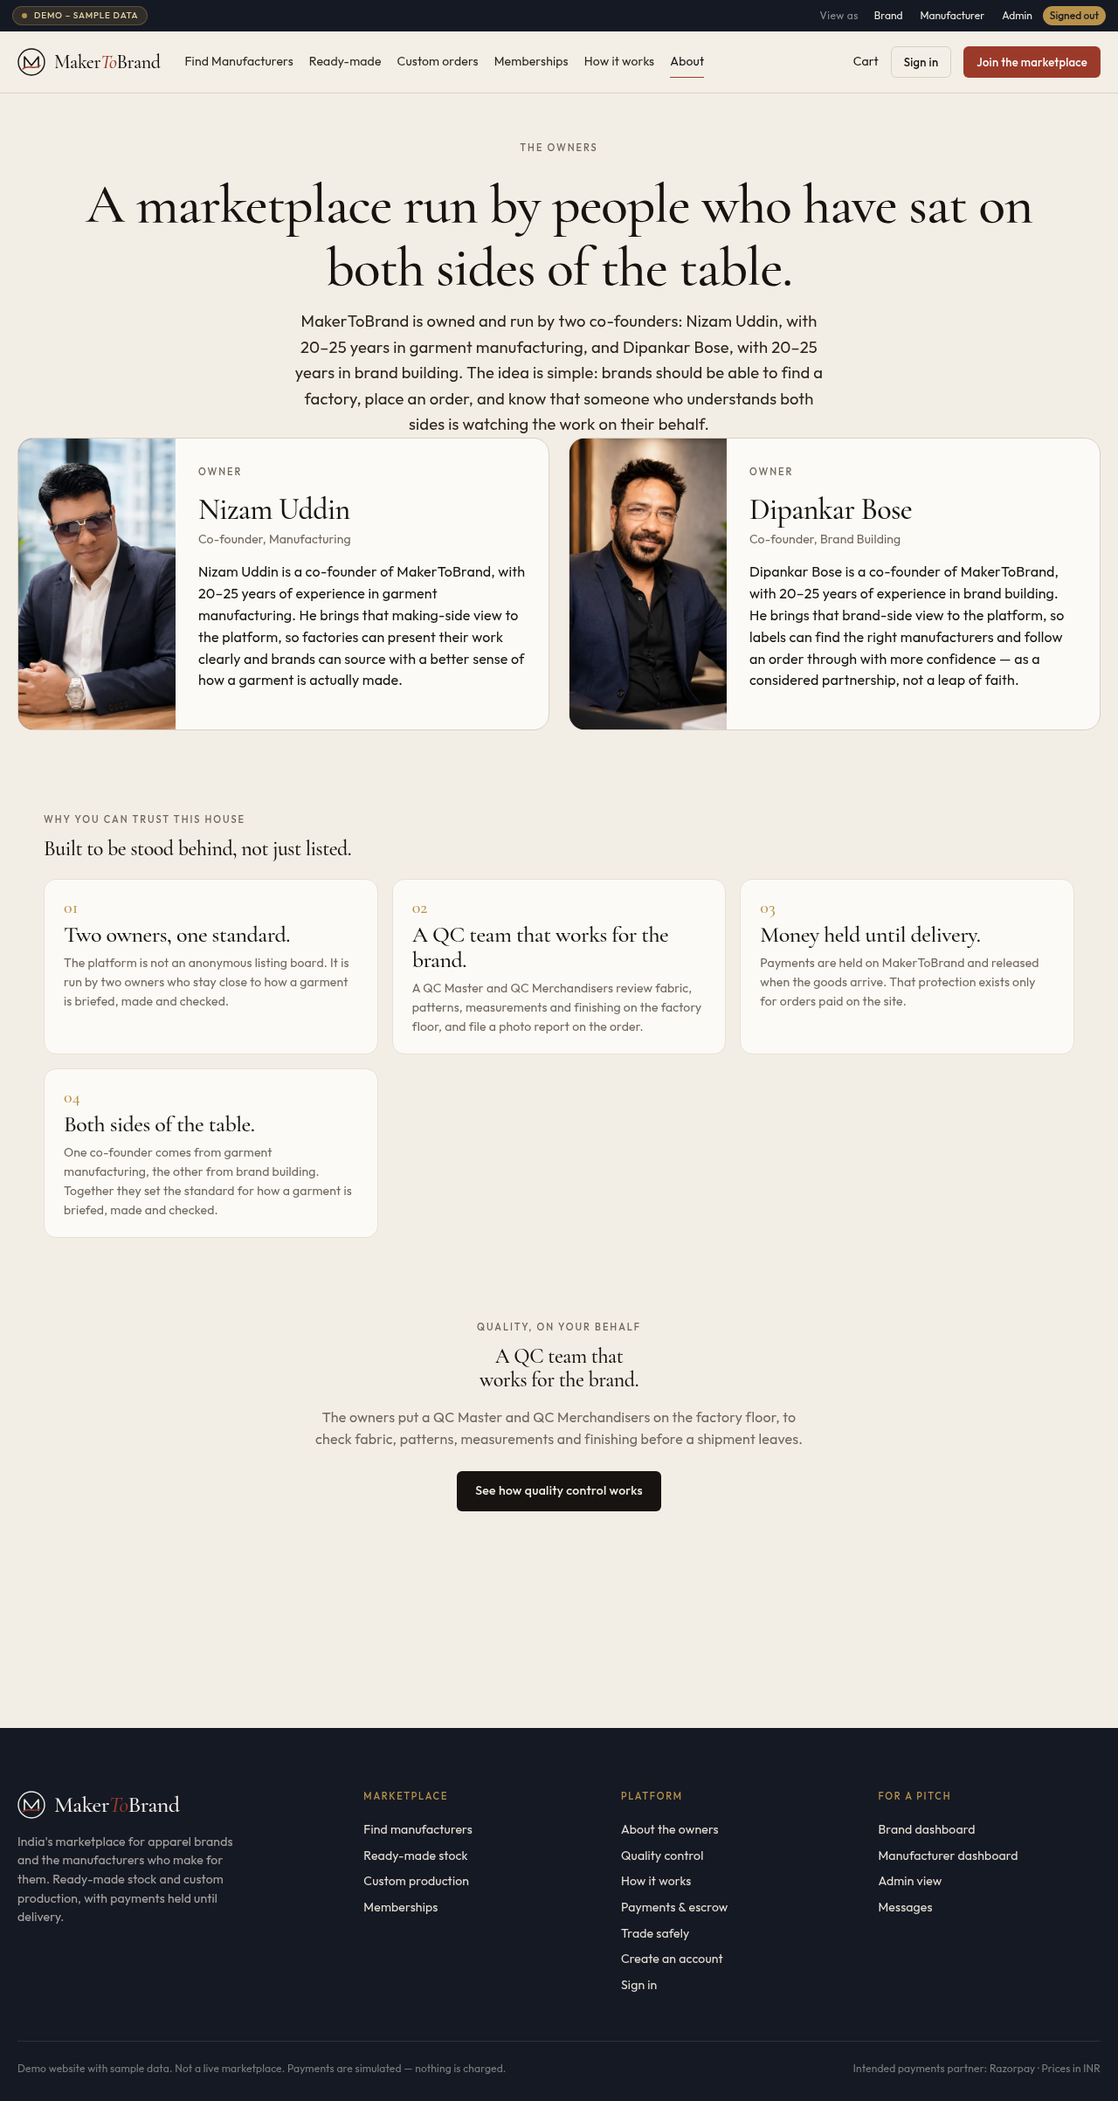
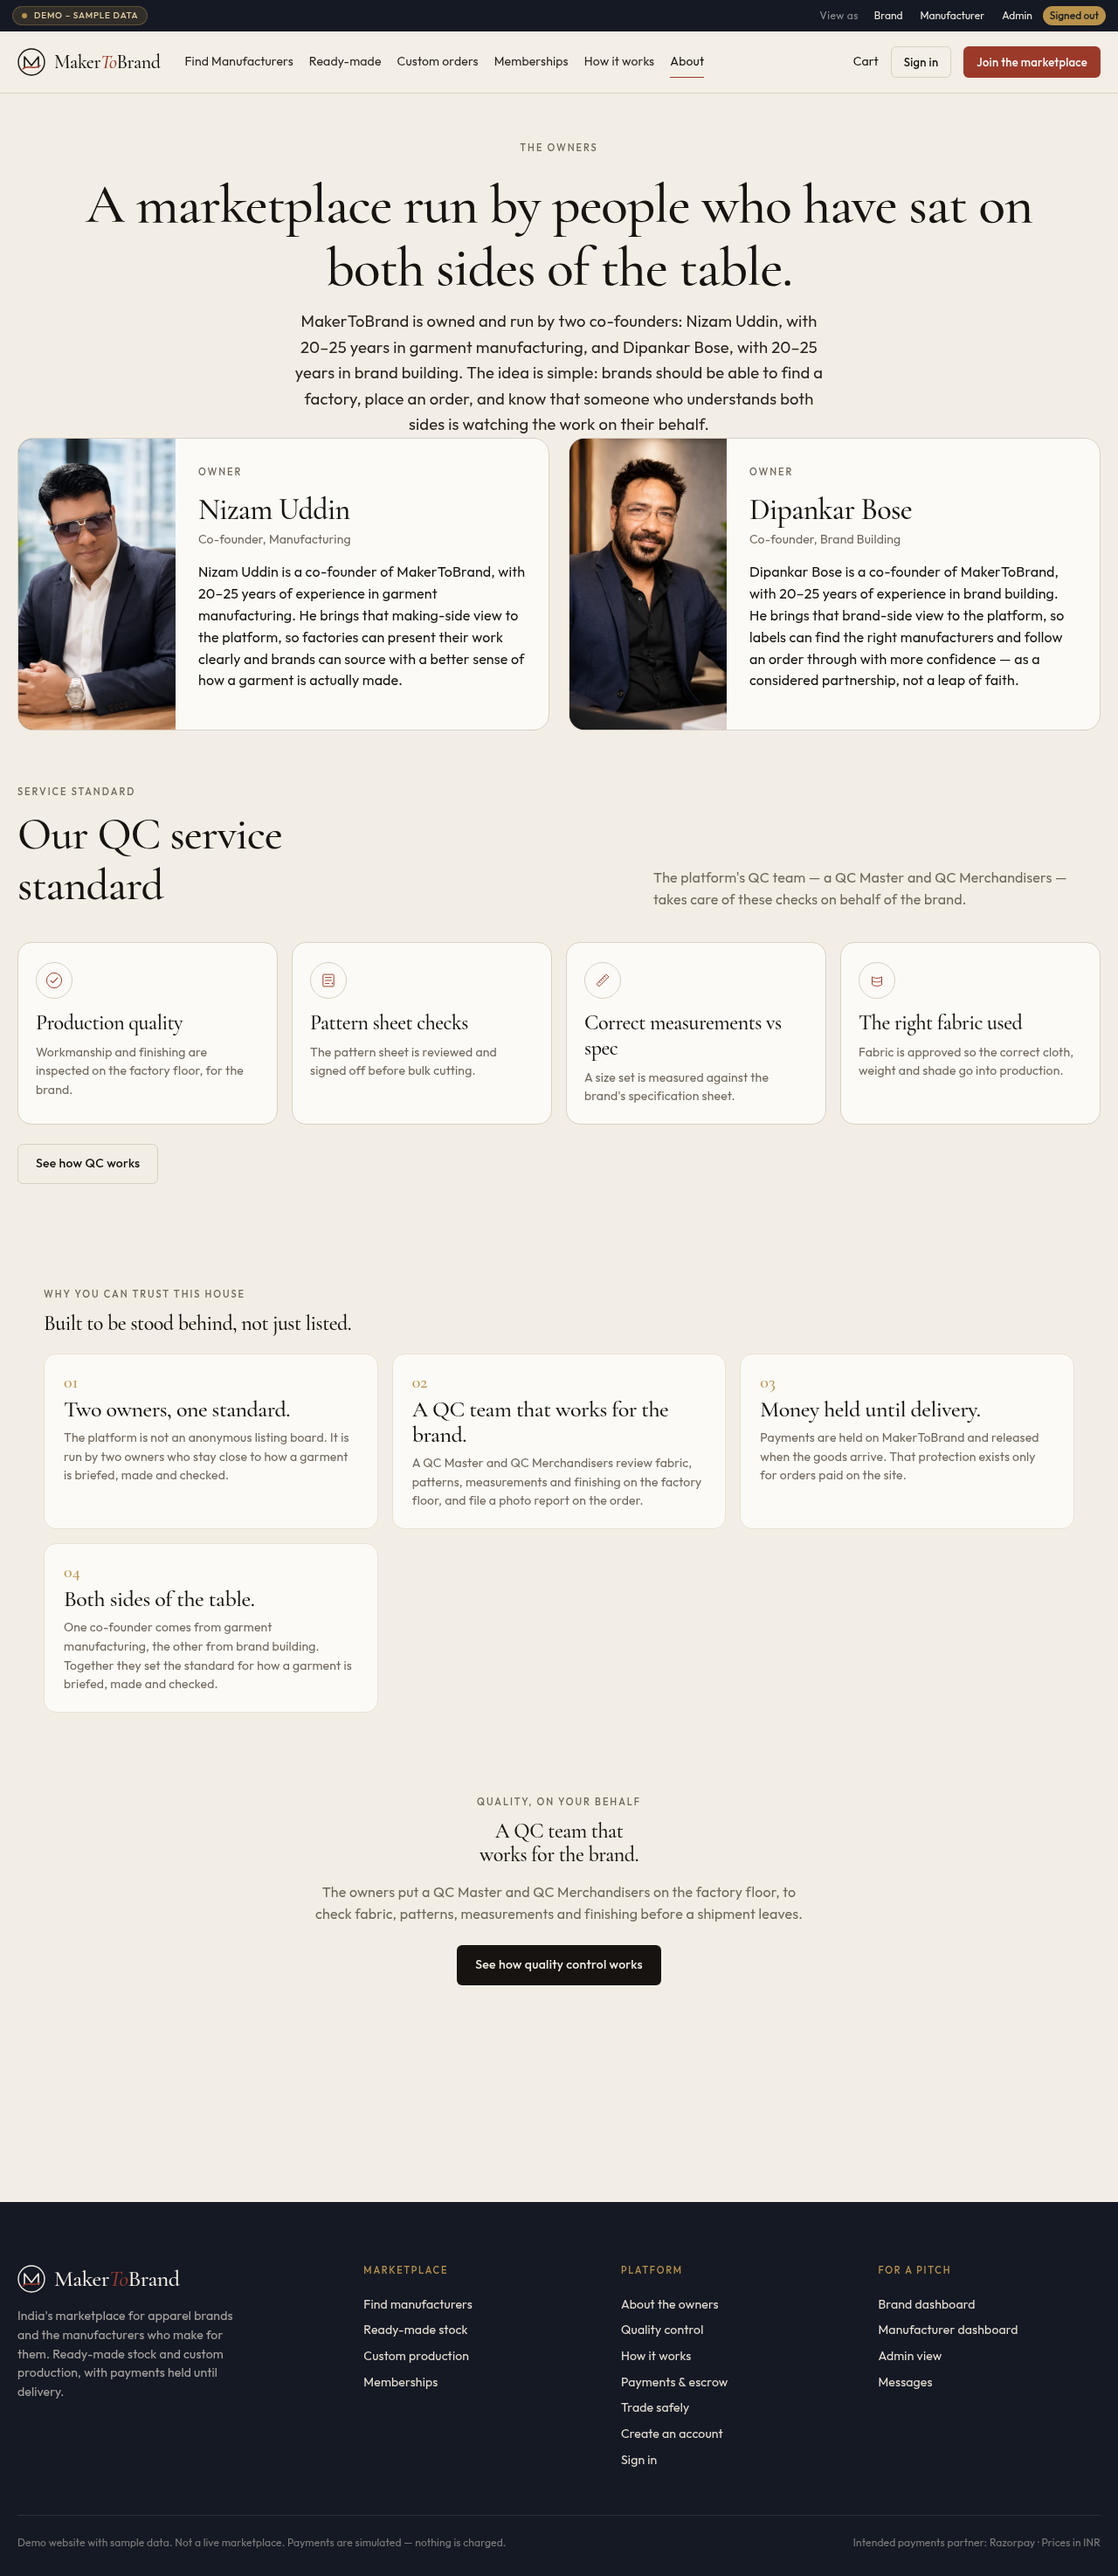
Add the QC service standard under the founders
The About page and the Quality Control page now share a four-point standard: production quality, pattern sheet checks, measurements against spec, and the right fabric, handled by the QC team on behalf of the brand.

diff --git a/js/app.js b/js/app.js
@@ -496,9 +496,43 @@
     </article>`;
   }
 
+
+  function qcStandardIcons() {
+    return {
+      quality: `<svg viewBox="0 0 32 32" aria-hidden="true"><circle cx="16" cy="16" r="12.5" fill="none" stroke="currentColor" stroke-width="1.4"/><path d="M10.5 16.5 l3.4 3.4 7.6-8.2" fill="none" stroke="currentColor" stroke-width="1.6" stroke-linecap="round" stroke-linejoin="round"/></svg>`,
+      pattern: `<svg viewBox="0 0 32 32" aria-hidden="true"><rect x="7" y="6" width="18" height="20" rx="1.5" fill="none" stroke="currentColor" stroke-width="1.4"/><path d="M11 11h10M11 16h10M11 21h6" fill="none" stroke="currentColor" stroke-width="1.4" stroke-linecap="round"/><circle cx="22.5" cy="21" r="1.3" fill="currentColor"/></svg>`,
+      measure: `<svg viewBox="0 0 32 32" aria-hidden="true"><path d="M6 22 L22 6 l4 4 L10 26 Z" fill="none" stroke="currentColor" stroke-width="1.4" stroke-linejoin="round"/><path d="M10 18l2 2M13 15l2 2M16 12l2 2M19 9l2 2" stroke="currentColor" stroke-width="1.3" stroke-linecap="round"/></svg>`,
+      fabric: `<svg viewBox="0 0 32 32" aria-hidden="true"><path d="M8 10c4 3 12 3 16 0v13c-4 3-12 3-16 0V10Z" fill="none" stroke="currentColor" stroke-width="1.4" stroke-linejoin="round"/><path d="M8 16.5c4 3 12 3 16 0" fill="none" stroke="currentColor" stroke-width="1.3"/></svg>`
+    };
+  }
+  function qcStandardHtml(opts) {
+    const std = (MTB_DATA.qcService && MTB_DATA.qcService.standard) || {};
+    const icons = qcStandardIcons();
+    const linkHref = (opts && opts.href) || "qc.html";
+    const linkLabel = (opts && opts.linkLabel) || "See how QC works";
+    const points = (std.points || []).map((pt) =>
+      `<article class="qc-std-card">
+        <div class="qc-std-icon">${icons[pt.id] || icons.quality}</div>
+        <h3>${escapeHtml(pt.title)}</h3>
+        <p>${escapeHtml(pt.line)}</p>
+      </article>`
+    ).join("");
+    return `<div class="qc-standard" id="qc-standard">
+      <div class="section-head">
+        <div>
+          <span class="eyebrow ink">${escapeHtml(std.eyebrow || "Service standard")}</span>
+          <h2>${escapeHtml(std.title || "Our QC service standard")}</h2>
+        </div>
+        <p>${escapeHtml(std.intro || "")}</p>
+      </div>
+      <div class="qc-std-grid">${points}</div>
+      <p class="qc-std-link"><a class="btn btn-ghost" href="${escapeHtml(linkHref)}">${escapeHtml(linkLabel)}</a></p>
+    </div>`;
+  }
+
   window.MTB = {
     init, inr, param, getSession, setSession, getCart, setCart, addToCart,
     maker, product, rfq, allRfqs, allOrders, getExtraRfqs, getBlocked, setBlocked,
-    tierPrice, toast, stars, escapeHtml, requireRole, makerCard, productCard, partnerOrders, hasPaidOrderWith, loyaltyRate, pct, sellerFeeRate, feeFor, cartMerchandise, cartFeeBreakdown, inDelhiNcr, makerMatchesCategory, makerMatchesQuery, makerContacts, maskContact, contactUnlocked, protectBadge, qcBadge, qcReportHtml, founderCard, linkedinIcon, KEY, $, $$
+    tierPrice, toast, stars, escapeHtml, requireRole, makerCard, productCard, partnerOrders, hasPaidOrderWith, loyaltyRate, pct, sellerFeeRate, feeFor, cartMerchandise, cartFeeBreakdown, inDelhiNcr, makerMatchesCategory, makerMatchesQuery, makerContacts, maskContact, contactUnlocked, protectBadge, qcBadge, qcReportHtml, founderCard, linkedinIcon, qcStandardHtml, KEY, $, $$
   };
 })();

diff --git a/js/data.js b/js/data.js
@@ -1116,6 +1116,17 @@ window.MTB_DATA = {
   qcService: {
     includedNote: "QC service included for brand subscribers",
     headline: "Your QC team on the factory floor.",
+    standard: {
+      eyebrow: "Service standard",
+      title: "Our QC service standard",
+      intro: "The platform's QC team — a QC Master and QC Merchandisers — takes care of these checks on behalf of the brand.",
+      points: [
+        { id: "quality", title: "Production quality", line: "Workmanship and finishing are inspected on the factory floor, for the brand." },
+        { id: "pattern", title: "Pattern sheet checks", line: "The pattern sheet is reviewed and signed off before bulk cutting." },
+        { id: "measure", title: "Correct measurements vs spec", line: "A size set is measured against the brand's specification sheet." },
+        { id: "fabric", title: "The right fabric used", line: "Fabric is approved so the correct cloth, weight and shade go into production." }
+      ]
+    },
     lead: "MakerToBrand provides its own quality team — a QC Master and QC Merchandisers — who work on behalf of the brand. They check production quality, the pattern sheet, the measurements and that the right fabric is used, then leave a photo report on the order.",
     team: [
       { role: "QC Master", text: "Leads the programme. Signs off the approved fabric, the size set and the final inspection before a shipment is allowed to leave." },

diff --git a/css/styles.css b/css/styles.css
@@ -1294,3 +1294,39 @@ hr.sep { border: 0; border-top: 1px solid var(--line); margin: 32px 0; }
   .qc-photos { grid-template-columns: 1fr 1fr; }
   .qc-step { grid-template-columns: 52px 1fr; }
 }
+
+
+/* QC service standard */
+.qc-std-section { padding: 56px 0 8px; }
+.qc-std-grid {
+  display: grid;
+  grid-template-columns: repeat(4, 1fr);
+  gap: 16px;
+}
+.qc-std-card {
+  background: var(--paper);
+  border: 1px solid var(--line);
+  border-radius: 16px;
+  padding: 22px 20px 20px;
+}
+.qc-std-icon {
+  width: 42px;
+  height: 42px;
+  border-radius: 50%;
+  border: 1px solid var(--line);
+  display: flex;
+  align-items: center;
+  justify-content: center;
+  color: var(--madder);
+  margin-bottom: 14px;
+}
+.qc-std-icon svg { width: 22px; height: 22px; display: block; }
+.qc-std-card h3 { font-size: 24px; margin: 0 0 8px; line-height: 1.2; }
+.qc-std-card p { margin: 0; color: var(--muted); font-size: 14px; }
+.qc-std-link { margin-top: 22px; }
+@media (max-width: 980px) {
+  .qc-std-grid { grid-template-columns: 1fr 1fr; }
+}
+@media (max-width: 640px) {
+  .qc-std-grid { grid-template-columns: 1fr; }
+}

diff --git a/about.html b/about.html
@@ -23,6 +23,9 @@
     <div class="wrap-wide">
       <div class="founder-grid" id="founder-grid"></div>
     </div>
+    <section class="qc-std-section" id="qc-standard-wrap">
+      <div class="wrap-wide" id="qc-standard-slot"></div>
+    </section>
     <section>
       <div class="wrap">
         <span class="eyebrow ink">Why you can trust this house</span>
@@ -52,6 +55,7 @@
         if (story.headline) document.getElementById("about-headline").textContent = story.headline;
         if (story.story) document.getElementById("about-story").textContent = story.story;
         document.getElementById("founder-grid").innerHTML = (MTB_DATA.founders || []).map((f) => MTB.founderCard(f)).join("");
+        document.getElementById("qc-standard-slot").innerHTML = MTB.qcStandardHtml({ href: "qc.html" });
         document.getElementById("trust-points").innerHTML = (MTB_DATA.trustPoints || []).map((p, i) =>
           `<article class="stay-card"><div class="stay-num">0${i+1}</div><h3>${MTB.escapeHtml(p.title)}</h3><p>${MTB.escapeHtml(p.text)}</p></article>`
         ).join("");

diff --git a/qc.html b/qc.html
@@ -30,6 +30,9 @@
         <img src="images/workshop-wide.jpg" alt="Hands finishing a garment on the production table">
       </div>
     </section>
+    <section class="qc-std-section" id="qc-standard-wrap">
+      <div class="wrap-wide" id="qc-standard-slot"></div>
+    </section>
     <section>
       <div class="wrap-wide">
         <div class="section-head">
@@ -73,6 +76,7 @@
         const qc = MTB_DATA.qcService || {};
         if (qc.lead) document.getElementById("qc-lead").textContent = qc.lead;
         if (qc.includedNote) document.getElementById("qc-included").textContent = qc.includedNote;
+        document.getElementById("qc-standard-slot").innerHTML = MTB.qcStandardHtml({ href: "#steps" });
         document.getElementById("qc-team").innerHTML = (qc.team || []).map((m) =>
           `<article class="qc-team-card"><h3>${MTB.escapeHtml(m.role)}</h3><p>${MTB.escapeHtml(m.text)}</p></article>`
         ).join("");
